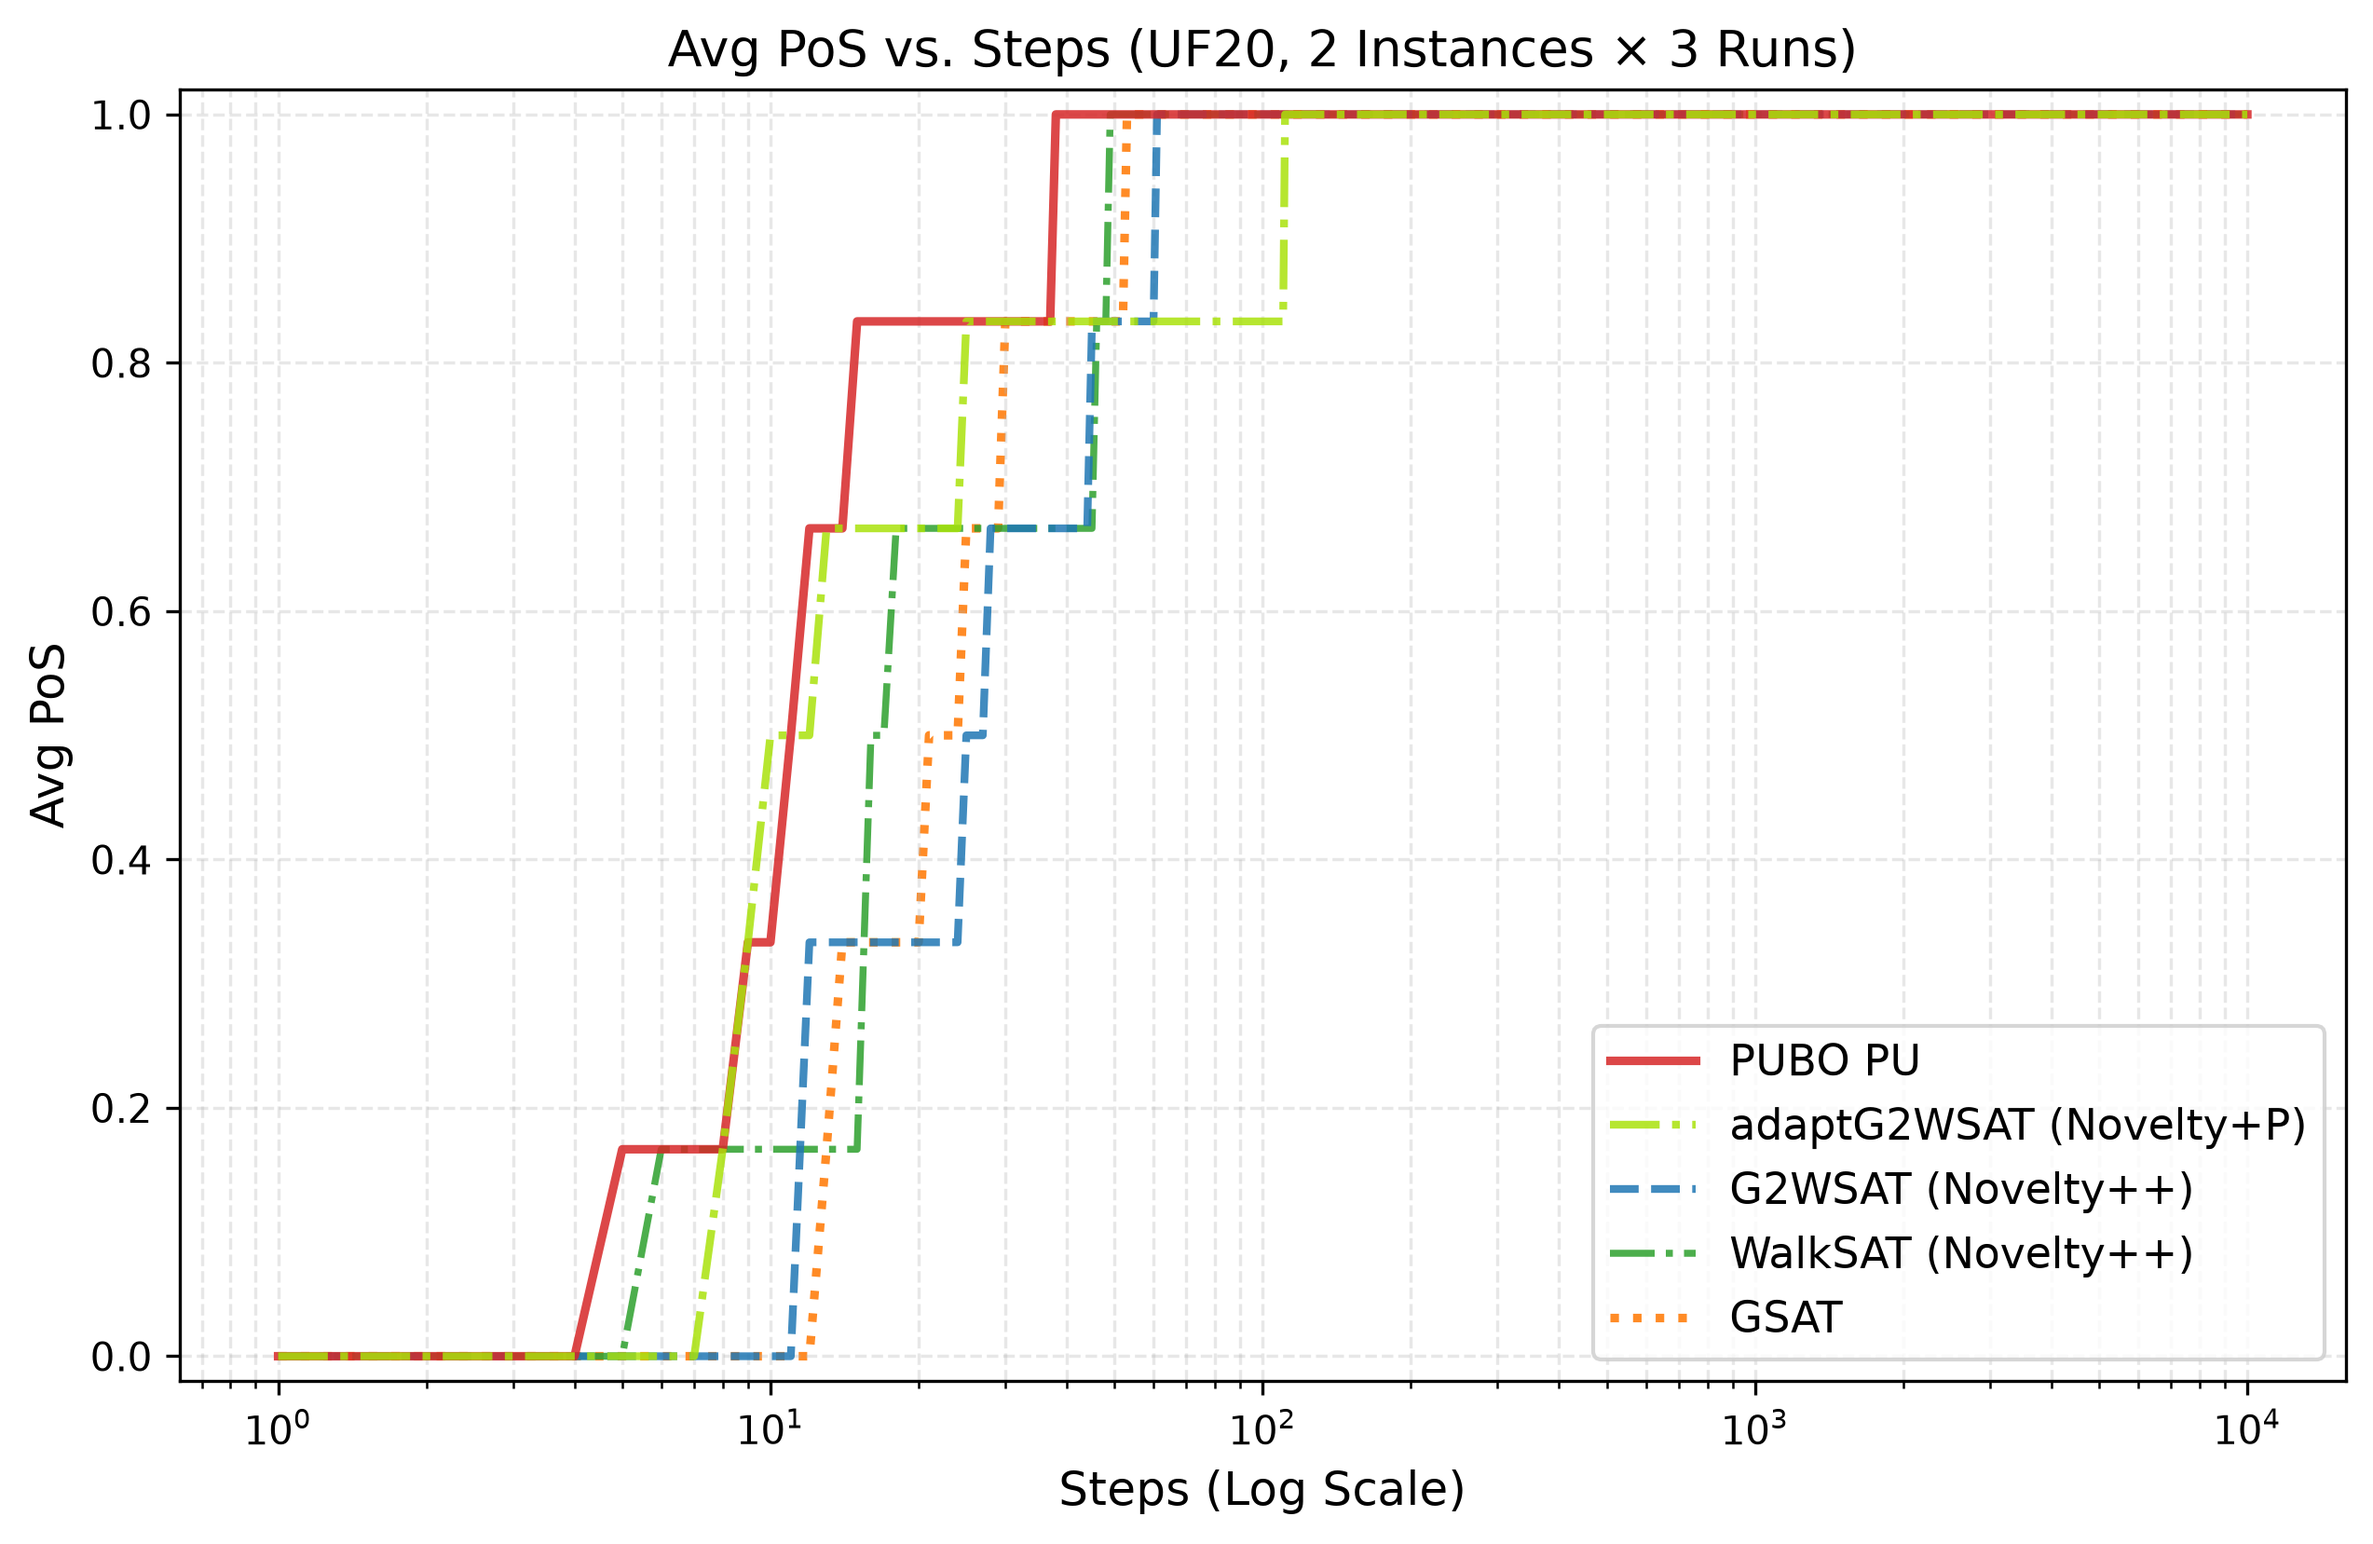
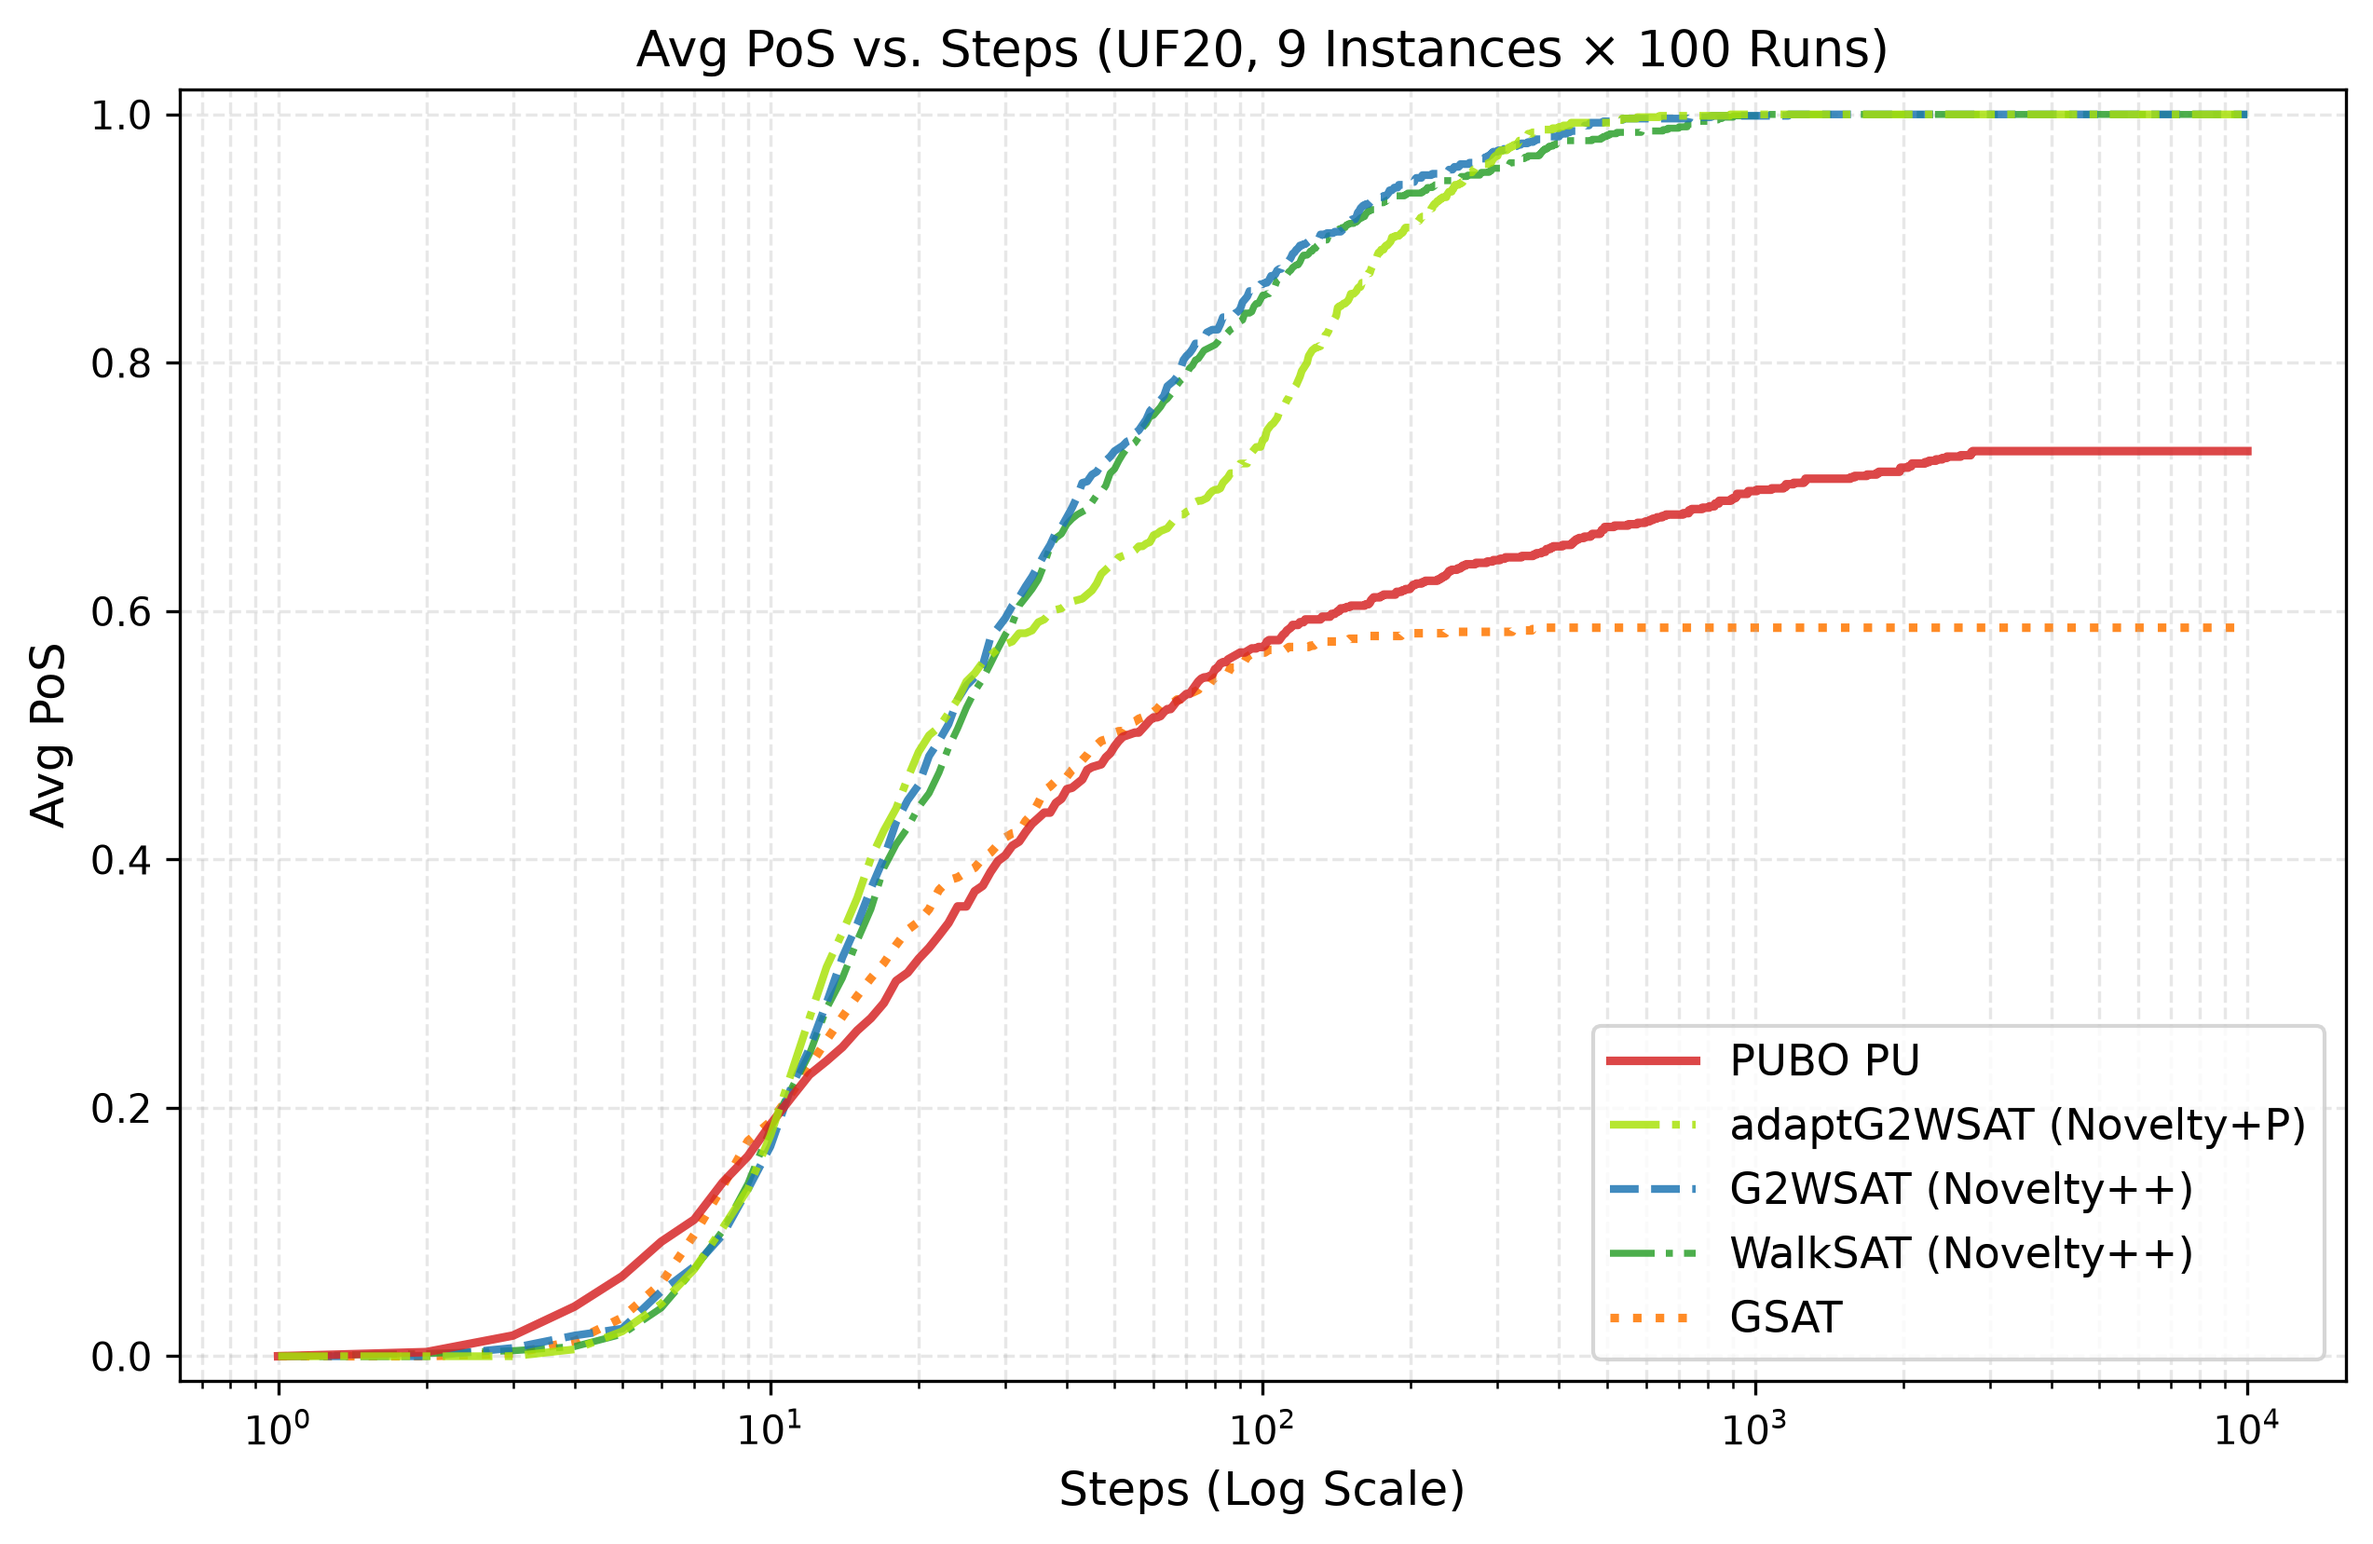
updated plots

diff --git a/plots/pos_solving_time_plot2.py b/plots/pos_solving_time_plot2.py
@@ -24,8 +24,8 @@ from walksat import WalkSAT
 from adapt_g2wsat import AdaptG2WSATP
 
 DATASETS = {
-    "uf20": ("/DATA/FCD_LAB/user1/TH/dataset/uf20-91", "uf20", 10),
-    "uf50": ("/DATA/FCD_LAB/user1/TH/dataset/uf50-218", "uf50", 10),
+    # "uf20": ("/DATA/FCD_LAB/user1/TH/dataset/uf20-91", "uf20", 10),
+    # "uf50": ("/DATA/FCD_LAB/user1/TH/dataset/uf50-218", "uf50", 10),
     "uf100": ("/DATA/FCD_LAB/user1/TH/dataset/uf100-430", "uf100", 10),
     "uf150": (
         "/DATA/FCD_LAB/user1/TH/dataset/uf150-645/ai/hoos/Research/SAT/Formulae/UF150.645.100",
@@ -70,7 +70,10 @@ def run_benchmark_for_size(size_key):
     print(f"==================================================")
 
     for file_idx in range(1, num_files + 1):
-        file_name = f"{prefix}-{file_idx:02d}.cnf"
+        if file_idx < 10:
+            file_name = f"{prefix}-{file_idx:02d}.cnf"  # e.g., uf20-01.cnf
+        else:
+            file_name = f"{prefix}-{file_idx:03d}.cnf"
         file_path = os.path.join(base_dir, file_name)
 
         if not os.path.exists(file_path):
@@ -104,7 +107,7 @@ def run_benchmark_for_size(size_key):
                 sigma=PUBO_SIGMA,
             )
             pubo_steps.append(step if status else float("inf"))
-            print(f"pubo_r:", r)
+            # print(f"pubo_r:", r)
         print(f"pubo_steps:", pubo_steps)
 
         adapt_g2wsatp_solver = AdaptG2WSATP(
@@ -116,7 +119,7 @@ def run_benchmark_for_size(size_key):
                 max_tries=MAX_TRIES
             )
             adapt_g2wsatp_steps.append(step if status else float("inf"))
-            print(f"adapt_g2wsatp_r:", r)
+            # print(f"adapt_g2wsatp_r:", r)
         print(f"adapt_g2wsatp_steps:", adapt_g2wsatp_steps)
 
         g2wsat_solver = G2WSAT(
@@ -130,7 +133,7 @@ def run_benchmark_for_size(size_key):
                 div_prob_dp=div_prob_dp,
             )
             g2wsat_steps.append(step if status else float("inf"))
-            print(f"g2wsat_r:", r)
+            # print(f"g2wsat_r:", r)
         print(f"g2wsat_steps:", g2wsat_steps)
 
         walksat_solver = WalkSAT(
@@ -144,7 +147,7 @@ def run_benchmark_for_size(size_key):
                 div_prob_dp=div_prob_dp,
             )
             walksat_steps.append(step if status else float("inf"))
-            print(f"walksat_r:", r)
+            # print(f"walksat_r:", r)
         print(f"walksat_steps:", walksat_steps)
 
         gsat_solver = GSAT(
@@ -155,7 +158,7 @@ def run_benchmark_for_size(size_key):
                 max_steps=MAX_STEPS, max_tries=MAX_TRIES
             )
             gsat_steps.append(step if status else float("inf"))
-            print(f"gsat_r:", r)
+            # print(f"gsat_r:", r)
         print(f"gsat_steps:", gsat_steps)
 
         all_pubo_pos.append(calculate_pos_vectorized(pubo_steps, steps_arr))
@@ -182,17 +185,15 @@ def run_benchmark_for_size(size_key):
         avg_pubo_pos,
         label="PUBO PU",
         color="#d62728",
-        linestyle="-",
-        linewidth=2.2,
+        linewidth=2.0,
         alpha=0.85,
-        zorder=4,
+        zorder=5,
     )
     plt.plot(
         steps_arr,
         avg_adapt_g2wsatp_pos,
         label="adaptG2WSAT (Novelty+P)",
-        color="#a9e20b",
-        linestyle="-.",
+        color="#efe30a",
         linewidth=2.0,
         alpha=0.85,
         zorder=4,
@@ -202,7 +203,6 @@ def run_benchmark_for_size(size_key):
         avg_g2wsat_pos,
         label="G2WSAT (Novelty++)",
         color="#1f77b4",
-        linestyle="--",
         linewidth=2.0,
         alpha=0.85,
         zorder=3,
@@ -212,8 +212,7 @@ def run_benchmark_for_size(size_key):
         avg_walksat_pos,
         label="WalkSAT (Novelty++)",
         color="#2ca02c",
-        linestyle="-.",
-        linewidth=1.8,
+        linewidth=2.0,
         alpha=0.85,
         zorder=2,
     )
@@ -222,9 +221,8 @@ def run_benchmark_for_size(size_key):
         avg_gsat_pos,
         label="GSAT",
         color="#ff7f0e",
-        linestyle=":",
-        linewidth=2.2,
-        alpha=0.9,
+        linewidth=2.0,
+        alpha=0.85,
         zorder=1,
     )
 
